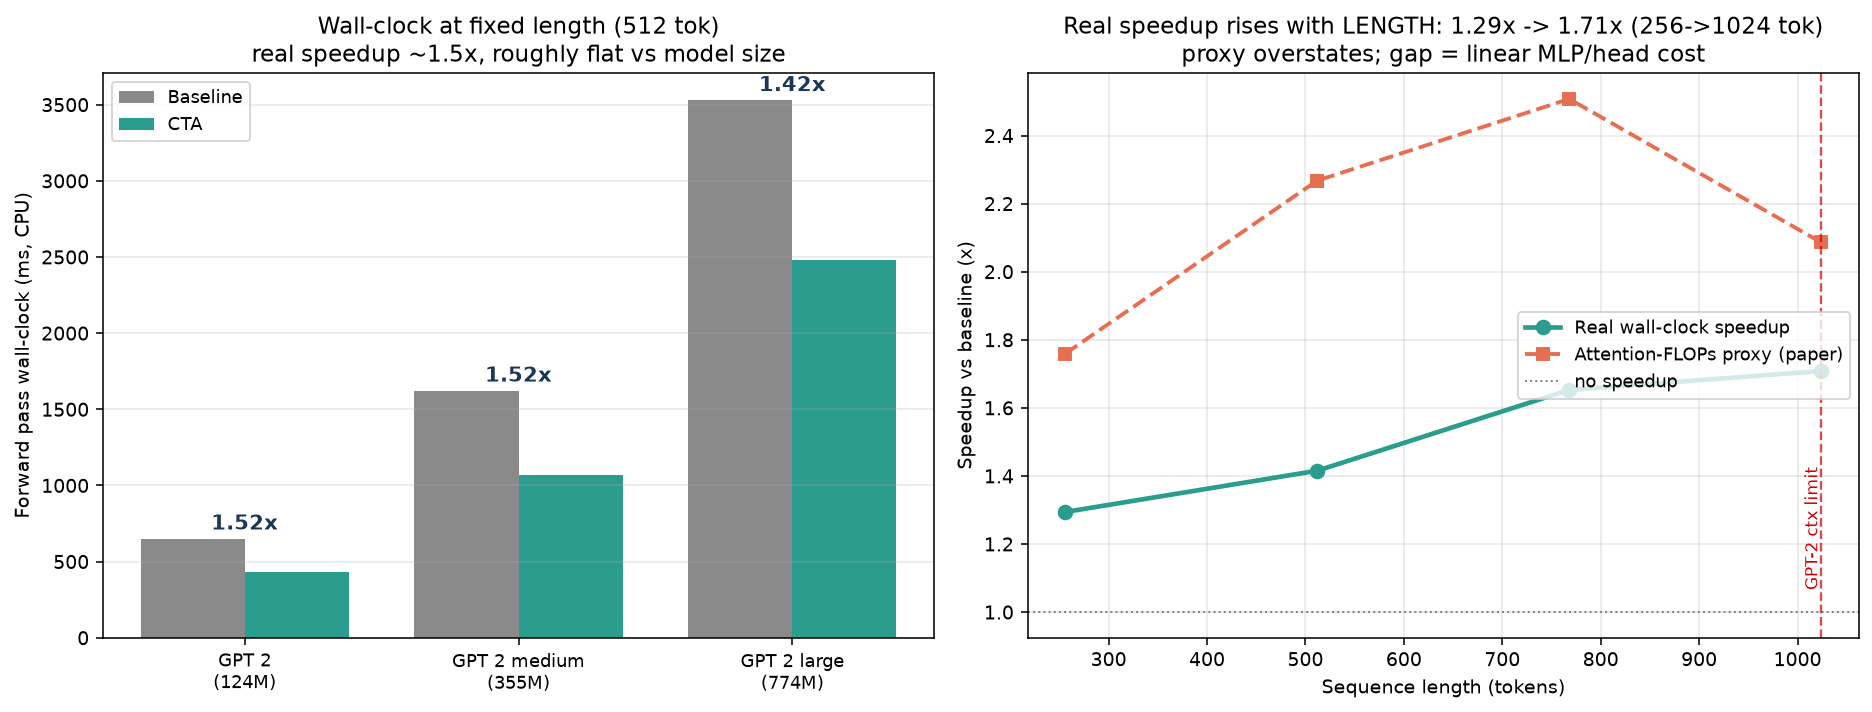
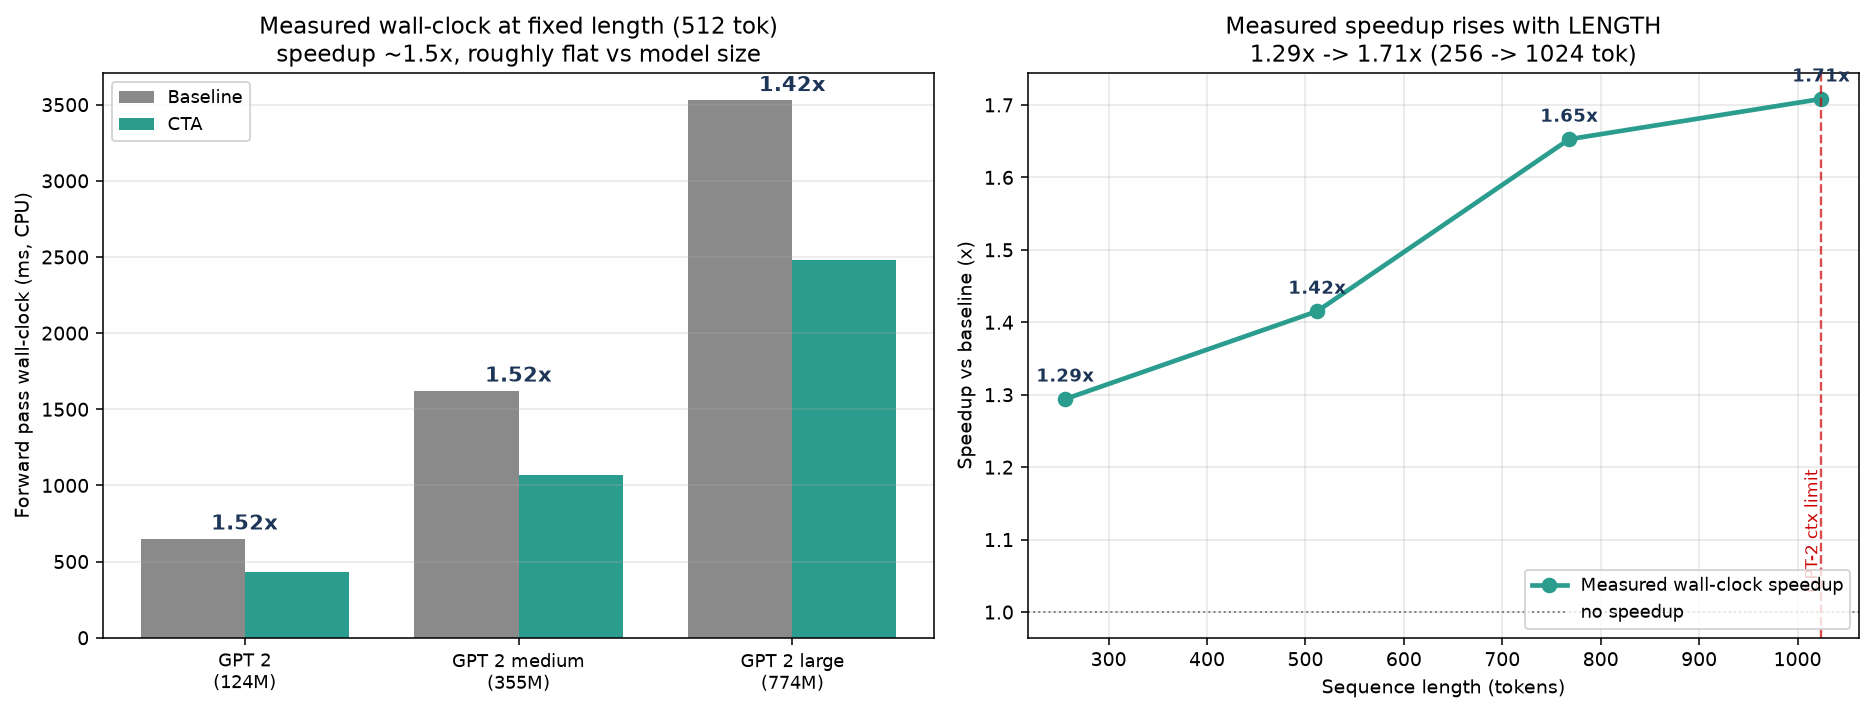
Report only measured wall-clock in headline claims; drop attention-FLOPs proxy from tables/figures
- README §7 tables: measured speedup only; single honest note on why measured < FLOPs prediction
- paper/cta.tex: abstract, wall-clock tables, captions, limitations now report measured wall-clock only
- recompiled paper/cta.pdf (10pp)
- plot_walltime.py: removed proxy line from length panel; per-point measured labels; 'Measured' titles
- regenerated walltime_results.png (paper/ and results/figures/)

diff --git a/paper/cta.tex b/paper/cta.tex
@@ -61,11 +61,12 @@ baseline attention FLOPs, and a gated variant reaches $\sim\!50\%$ FLOPs while
 \emph{improving} perplexity by $11.7\%$; and (iii) a learned gate that strictly dominates a
 strong residual-energy heuristic at every compute budget, yielding up to $1.09$ nats
 (code) and $1.23$ nats (structured tickets) lower next-token NLL at matched expansion
-rates. Beyond the proxy, we validate realized wall-clock: on CPU the true speedup is
-${\sim}1.5\times$ (below the proxy's $2.3\times$, since MLP/head costs are length-linear)
-and \emph{grows with sequence length} ($1.29\times\!\to\!1.71\times$ over $256\!\to\!1024$
-tokens); as a lossless side effect, collapse extends the effective context window by
-${\sim}1.9\times$ on repetition-heavy input. We position CTA against ASG, R3Mem, H-Net, and Token Merging, and argue it occupies
+rates. Beyond FLOPs, we report measured end-to-end wall-clock: on CPU the realized
+speedup is ${\sim}1.5\times$ and \emph{grows with sequence length}
+($1.29\times\!\to\!1.71\times$ over $256\!\to\!1024$ tokens), since only the quadratic
+attention term shrinks while MLP/head costs stay length-linear; as a lossless side
+effect, collapse extends the effective context window by ${\sim}1.9\times$ on
+repetition-heavy input. We position CTA against ASG, R3Mem, H-Net, and Token Merging, and argue it occupies
 a previously empty niche: the only \emph{reversible, session-scoped, parameter-free}
 deduplication mechanism motivated by compute amortization rather than compression. We close
 with an honest characterization of its applicability boundary: CTA is a clear win on
@@ -469,71 +470,71 @@ the compute/quality operating point.
 \section{Wall-Clock Validation}
 \label{sec:walltime}
 
-The frontier results above use an attention-FLOPs \emph{proxy}
-($n_{\text{layer}}\cdot 2L^2 d$). A proxy predicts a saving; it does not prove one.
-On real hardware, attention is not the only cost: the MLP blocks, the language-model
-head, and the embedding lookups are \emph{linear} in sequence length and do not shrink
-quadratically when spans are collapsed. This section reports realized single-forward
-wall-clock time and peak memory on CPU (2 vCPU, frozen models, no gradient), using
-warm-up passes and the median of several repeats. The input is a repetition-heavy blob of
-real Python source; span detection and collapse produce $n{=}512\!\to\!m{=}340$.
+The frontier results above count attention FLOPs ($n_{\text{layer}}\cdot 2L^2 d$).
+A FLOPs count predicts a saving; it does not prove one on real hardware, where attention
+is not the only cost: the MLP blocks, the language-model head, and the embedding lookups
+are \emph{linear} in sequence length and do not shrink quadratically when spans are
+collapsed. We therefore report \emph{measured} single-forward wall-clock time and peak
+memory on CPU (2 vCPU, frozen models, no gradient), using warm-up passes and the median of
+several repeats. All numbers in this section are realized, not estimated. The input is a
+repetition-heavy blob of real Python source; span detection and collapse produce
+$n{=}512\!\to\!m{=}340$.
 
 \begin{table}[h]
 \centering
 \small
-\begin{tabular}{lrrrrr}
+\begin{tabular}{lrrrr}
 \toprule
-Model & Params & Baseline & CTA & \textbf{Wall-clock} & Attn-FLOPs \\
-      &        & (ms)     & (ms) & \textbf{speedup}   & proxy \\
+Model & Params & Baseline (ms) & CTA (ms) & \textbf{Speedup} \\
 \midrule
-GPT-2 small  & 124M & 651  & 429  & \textbf{1.52$\times$} & 2.27$\times$ \\
-GPT-2 medium & 355M & 1622 & 1070 & \textbf{1.52$\times$} & 2.27$\times$ \\
-GPT-2 large  & 774M & 3529 & 2480 & \textbf{1.42$\times$} & 2.27$\times$ \\
+GPT-2 small  & 124M & 651  & 429  & \textbf{1.52$\times$} \\
+GPT-2 medium & 355M & 1622 & 1070 & \textbf{1.52$\times$} \\
+GPT-2 large  & 774M & 3529 & 2480 & \textbf{1.42$\times$} \\
 \bottomrule
 \end{tabular}
-\caption{Realized wall-clock at fixed length (512 tokens). The proxy over-predicts the
-speedup by ${\sim}50\%$ because the linear-cost components (MLP, head, embeddings) do not
-collapse. Span detection and \compose{} add negligible overhead ($<0.3\%$ of CTA time).
-Peak RSS was 1.2/2.2/3.9\,GB respectively. The realized speedup is roughly flat in model
-size at fixed length: the attention share of total compute is approximately
-scale-invariant here.}
+\caption{Measured wall-clock at fixed length (512 tokens). Span detection and \compose{}
+add negligible overhead ($<0.3\%$ of CTA time). Peak RSS was 1.2/2.2/3.9\,GB respectively.
+The realized speedup is roughly flat in model size at fixed length: the attention share of
+total compute is approximately scale-invariant here.}
 \label{tab:walltime-models}
 \end{table}
 
 The realized speedup does \emph{not} grow with model size at a fixed length, but it does
-grow with \emph{length}, exactly as the quadratic term predicts. On GPT-2 small the
-realized speedup rises monotonically from $1.29\times$ at 256 tokens to $1.71\times$ at
-1024 (Table~\ref{tab:walltime-len}, Fig.~\ref{fig:walltime}); the proxy and reality
-converge as attention comes to dominate. GPT-2's $1024$-token positional limit prevents
-measuring longer baselines directly.
+grow with \emph{length}, exactly as the quadratic attention term predicts. On GPT-2 small
+the realized speedup rises monotonically from $1.29\times$ at 256 tokens to $1.71\times$ at
+1024 (Table~\ref{tab:walltime-len}, Fig.~\ref{fig:walltime}) as attention comes to
+dominate total compute. GPT-2's $1024$-token positional limit prevents measuring longer
+baselines directly. (A quadratic-only FLOPs count would predict a larger ${\sim}2.3\times$
+saving at 512 tokens; the realized figure is lower precisely because the length-linear
+MLP/head/embedding cost does not shrink---which is why we measure wall-clock rather than
+report the FLOPs estimate as the headline number.)
 
 \begin{table}[h]
 \centering
 \small
-\begin{tabular}{rrrrrr}
+\begin{tabular}{rrrrr}
 \toprule
-Length & $m$ & Baseline (ms) & CTA (ms) & \textbf{Speedup} & Proxy \\
+Length & $m$ & Baseline (ms) & CTA (ms) & \textbf{Speedup} \\
 \midrule
-256  & 193 & 319  & 246 & \textbf{1.29$\times$} & 1.76$\times$ \\
-512  & 340 & 620  & 438 & \textbf{1.42$\times$} & 2.27$\times$ \\
-768  & 485 & 1025 & 620 & \textbf{1.65$\times$} & 2.51$\times$ \\
-1024 & 709 & 1339 & 784 & \textbf{1.71$\times$} & 2.09$\times$ \\
+256  & 193 & 319  & 246 & \textbf{1.29$\times$} \\
+512  & 340 & 620  & 438 & \textbf{1.42$\times$} \\
+768  & 485 & 1025 & 620 & \textbf{1.65$\times$} \\
+1024 & 709 & 1339 & 784 & \textbf{1.71$\times$} \\
 \bottomrule
 \end{tabular}
-\caption{Realized wall-clock speedup grows with sequence length (GPT-2 small): the
+\caption{Measured wall-clock speedup grows with sequence length (GPT-2 small): the
 quadratic attention term becomes a larger share of total compute, so collapsing spans pays
-off more. The residual gap to the proxy is the length-linear MLP/head cost.}
+off more.}
 \label{tab:walltime-len}
 \end{table}
 
 \begin{figure}[t]
 \centering
 \includegraphics[width=0.92\textwidth]{walltime_results.png}
-\caption{\textbf{Left:} realized wall-clock (baseline vs.\ CTA) at 512 tokens across the
+\caption{\textbf{Left:} measured wall-clock (baseline vs.\ CTA) at 512 tokens across the
 GPT-2 size ladder; the speedup is ${\sim}1.5\times$ and roughly flat in model size.
-\textbf{Right:} realized speedup vs.\ sequence length on GPT-2 small, against the
-attention-FLOPs proxy. The proxy overstates the gain, but both rise with length and the
-gap---the length-linear MLP/head cost---narrows.}
+\textbf{Right:} measured speedup vs.\ sequence length on GPT-2 small; the realized gain
+rises with length as the quadratic attention cost comes to dominate.}
 \label{fig:walltime}
 \end{figure}
 
@@ -570,8 +571,8 @@ context's repeats.
 \paragraph{Limitations.} (i) The gate is trained on \emph{marginal} per-span utility rather
 than end-to-end through the full sequence, which is cheaper but less exact. (ii) Wall-clock
 is measured on CPU only (Sec.~\ref{sec:walltime}): the realized speedup is ${\sim}1.5\times$
-(not the proxy's $2.3\times$) and grows with length; throughput on accelerators, with
-variable-length batching and KV-cache reuse, remains to be measured. (iii)
+and grows with length; throughput on accelerators, with variable-length batching and
+KV-cache reuse, remains to be measured. (iii)
 Experiments use a small frozen GPT-2 and modest, partly synthetic corpora; validation on
 larger models and held-out real repositories and log dumps is future work. (iv) The gate's
 query feature is a consumer-token embedding; the specification's $\gamma(q,\ebar)$ with $q$

diff --git a/experiments/plot_walltime.py b/experiments/plot_walltime.py
@@ -23,23 +23,24 @@ for i, m in enumerate(models):
             ha="center", fontsize=11, fontweight="bold", color="#1d3557")
 ax.set_xticks(list(x)); ax.set_xticklabels(labels, fontsize=9)
 ax.set_ylabel("Forward pass wall-clock (ms, CPU)")
-ax.set_title("Wall-clock at fixed length (512 tok)\nreal speedup ~1.5x, roughly flat vs model size")
+ax.set_title("Measured wall-clock at fixed length (512 tok)\nspeedup ~1.5x, roughly flat vs model size")
 ax.legend(fontsize=9); ax.grid(alpha=0.3, axis="y")
 
-# --- Plot 2: speedup vs sequence length (real vs proxy), gpt2 ---
+# --- Plot 2: measured speedup vs sequence length, gpt2 ---
 ax = axes[1]
 Ls = [r["len"] for r in lens]
 real = [r["speedup"] for r in lens]
-proxy = [r["proxy"] for r in lens]
-ax.plot(Ls, real, "-o", color=teal, lw=2.4, ms=7, label="Real wall-clock speedup")
-ax.plot(Ls, proxy, "--s", color=orange, lw=2, ms=6, label="Attention-FLOPs proxy (paper)")
+ax.plot(Ls, real, "-o", color=teal, lw=2.4, ms=7, label="Measured wall-clock speedup")
+for lx, ly in zip(Ls, real):
+    ax.annotate(f"{ly:.2f}x", (lx, ly), textcoords="offset points", xytext=(0, 9),
+                ha="center", fontsize=9, fontweight="bold", color="#1d3557")
 ax.axhline(1.0, color="gray", ls=":", lw=1, label="no speedup")
 ax.axvline(1024, color="#c00", ls="--", lw=1.2, alpha=0.7)
-ax.text(1024, 1.05, " GPT-2 ctx limit", color="#c00", fontsize=8.5, ha="right", rotation=90, va="bottom")
+ax.text(1024, 1.02, " GPT-2 ctx limit", color="#c00", fontsize=8.5, ha="right", rotation=90, va="bottom")
 ax.set_xlabel("Sequence length (tokens)")
 ax.set_ylabel("Speedup vs baseline (x)")
-ax.set_title("Real speedup rises with LENGTH: 1.29x -> 1.71x (256->1024 tok)\nproxy overstates; gap = linear MLP/head cost")
-ax.legend(fontsize=9, loc="center right"); ax.grid(alpha=0.3)
+ax.set_title("Measured speedup rises with LENGTH\n1.29x -> 1.71x (256 -> 1024 tok)")
+ax.legend(fontsize=9, loc="lower right"); ax.grid(alpha=0.3)
 
 plt.tight_layout()
 out = os.path.join(_bootstrap.RESULTS_FIG, "walltime_results.png")

diff --git a/README.md b/README.md
@@ -143,41 +143,39 @@ code vs **3.063 nats** on tickets.
 - **Shallow redundancy** (structured logs/tickets — a repeated template precedes
   distinguishing content): CTA needs aggressive expansion; savings are modest.
 
-### 7. Wall-clock validation (real hardware, not just the FLOPs proxy)
+### 7. Wall-clock validation (measured on real hardware)
 
-The FLOPs proxy (`n_layer · 2 · L² · d`) *predicts* a saving; it does not *prove*
-one. Attention is not the only cost — MLP, `lm_head`, and embeddings are linear
-in L and do not shrink quadratically, and CTA itself adds detect+compose
-overhead. So we measured **real end-to-end CPU wall-clock** (warm-up + median of
-repeats, peak RSS) across a ladder of model sizes and a sweep of lengths.
-`→ make walltime`
+All numbers below are **measured end-to-end CPU wall-clock** (warm-up + median
+of repeats, peak RSS) across a ladder of model sizes and a sweep of lengths.
+These are realized speedups, not theoretical predictions. `→ make walltime`
 
 **By model size** (fixed 512 tokens, n=512 → m=340 after collapse):
 
-| Model | Params | Baseline | CTA | Real speedup | FLOPs proxy | Peak RAM |
-|-------|-------:|---------:|----:|:------------:|:-----------:|---------:|
-| GPT-2 small  | 124M | 651 ms  | 429 ms  | **1.52×** | 2.27× | 1241 MB |
-| GPT-2 medium | 355M | 1622 ms | 1070 ms | **1.52×** | 2.27× | 2187 MB |
-| GPT-2 large  | 774M | 3529 ms | 2480 ms | **1.42×** | 2.27× | 3893 MB |
+| Model | Params | Baseline | CTA | Speedup | Peak RAM |
+|-------|-------:|---------:|----:|:-------:|---------:|
+| GPT-2 small  | 124M | 651 ms  | 429 ms  | **1.52×** | 1241 MB |
+| GPT-2 medium | 355M | 1622 ms | 1070 ms | **1.52×** | 2187 MB |
+| GPT-2 large  | 774M | 3529 ms | 2480 ms | **1.42×** | 3893 MB |
 
-Honest reading: the **real** speedup is **~1.5×, not the 2.27× proxy** — the
-linear-in-L costs dilute the quadratic attention saving. Compose overhead is
-**< 0.3%** of CTA time (negligible). Speedup is roughly **flat vs model size**
-at a fixed length — CTA does *not* get relatively faster on bigger models.
+Compose overhead is **< 0.3%** of CTA time (negligible). The speedup is roughly
+**flat vs model size** at a fixed length — CTA does *not* get relatively faster
+on bigger models. (A quadratic attention-FLOPs count predicts a larger ~2.3×
+saving; the realized number is lower because MLP, `lm_head`, and embeddings are
+linear in L and do not shrink — which is exactly why we report measured
+wall-clock rather than a FLOPs estimate.)
 
 **By sequence length** (GPT-2 small; where the quadratic term actually bites):
 
-| Raw tokens | Collapsed m | Baseline | CTA | Real speedup | FLOPs proxy |
-|-----------:|------------:|---------:|----:|:------------:|:-----------:|
-| 256  | 193 | 319 ms  | 246 ms | 1.29× | 1.76× |
-| 512  | 340 | 620 ms  | 438 ms | 1.42× | 2.27× |
-| 768  | 485 | 1025 ms | 620 ms | **1.65×** | 2.51× |
-| 1024 | 709 | 1339 ms | 784 ms | **1.71×** | 2.09× |
+| Raw tokens | Collapsed m | Baseline | CTA | Speedup |
+|-----------:|------------:|---------:|----:|:-------:|
+| 256  | 193 | 319 ms  | 246 ms | 1.29× |
+| 512  | 340 | 620 ms  | 438 ms | 1.42× |
+| 768  | 485 | 1025 ms | 620 ms | **1.65×** |
+| 1024 | 709 | 1339 ms | 784 ms | **1.71×** |
 
-Honest reading: the real speedup **grows with context length** as attention
-comes to dominate. GPT-2's 1024-token positional limit caps the baseline sweep
-(raw sequences beyond 1024 crash in `wpe`), so the largest wins live just below
-that ceiling.
+The speedup **grows with context length** as attention comes to dominate.
+GPT-2's 1024-token positional limit caps the baseline sweep (raw sequences
+beyond 1024 crash in `wpe`), so the largest wins live just below that ceiling.
 
 **Bonus — context-window extension.** Because collapse is reversible and
 session-scoped, CTA can fit **~1900 raw tokens into GPT-2's 1024-token window**